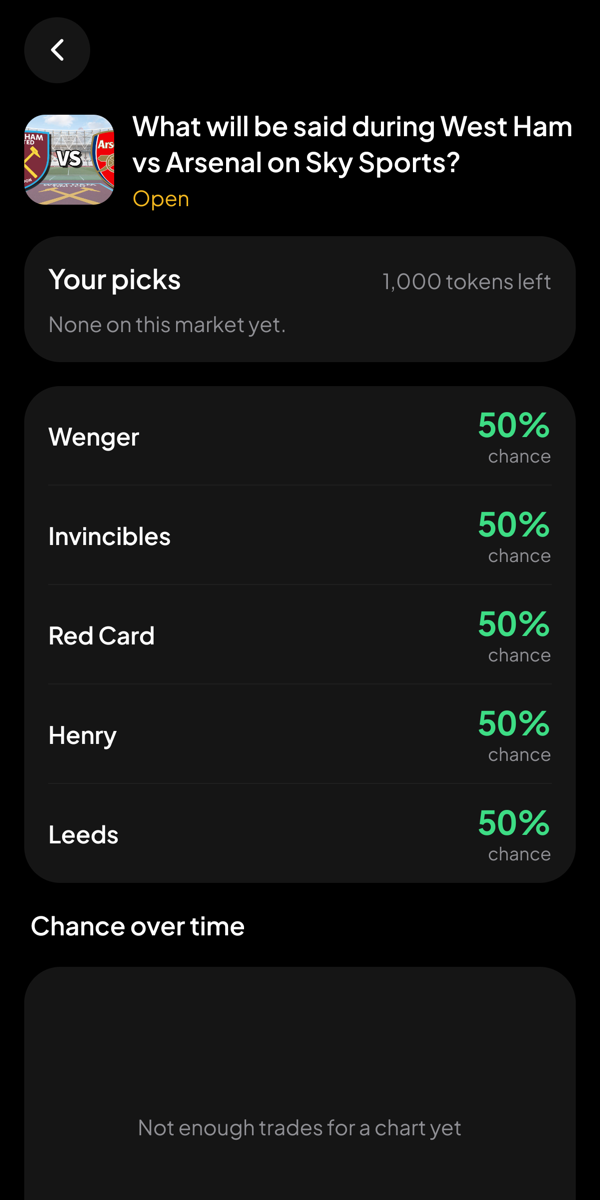
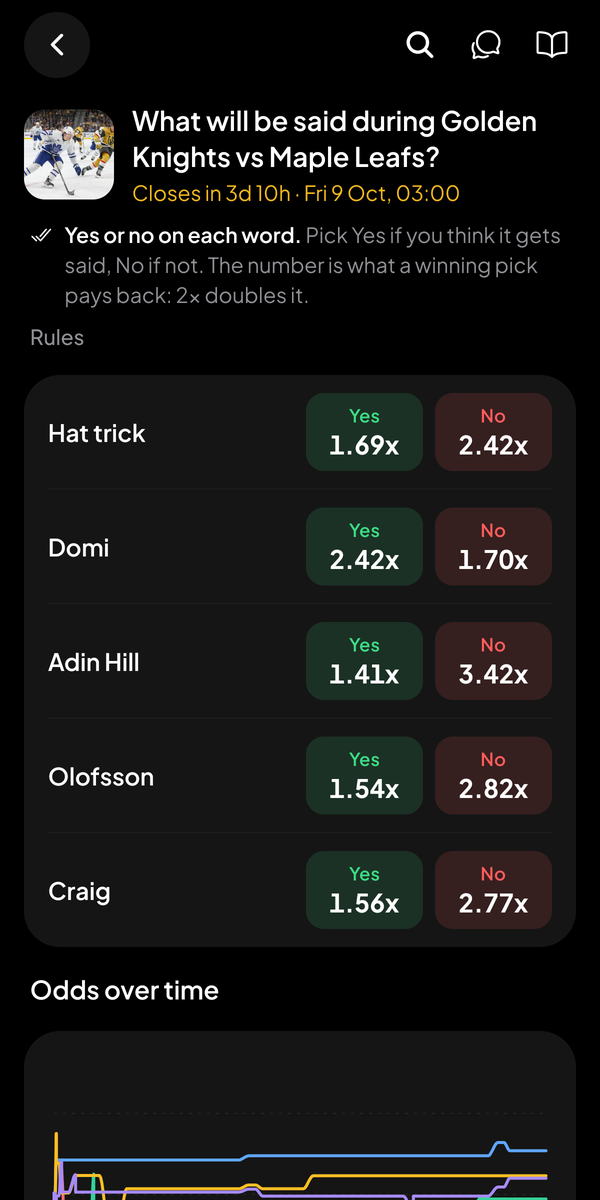
fix free market

diff --git a/src/app/free/[id].tsx b/src/app/free/[id].tsx
@@ -12,9 +12,10 @@ import { ScrollView, StyleSheet, Text, View } from 'react-native';
 import { chatEventId } from '@/chat/rules';
 import { getFreeMarket, getFreeMarketIdBySlug, tradeFree } from '@/api/free';
 import { useFreeChart, useFreeMarket, useFreePositions, useIsScreenFocused } from '@/api/queries';
+import { freeBuyMultiplier, freeQuote } from '@/free/display';
 import { sharesForTokens, virtualBuyCost, virtualSellReturn } from '@/free/lmsr';
 import { VIRTUAL_MARKET_POINTS_CAP, VIRTUAL_MARKET_POINTS_MULTIPLIER, getDisplayStatus } from '@/free/marketUtils';
-import { pct, tokens } from '@/lib/format';
+import { tokens } from '@/lib/format';
 import { toMs } from '@/lib/time';
 import { prepareSeries } from '@/lib/chart';
 import { useNow } from '@/lib/use-now';
@@ -144,7 +145,8 @@ function FreeYesNoScreen({ id, wordParam }: { id: number; wordParam?: string }) 
   });
   const heldBadges: Record<string, string> = {};
   for (const p of positions.data?.positions ?? []) {
-    const parts = [p.yes_shares > 0.005 ? `${fmt(p.yes_shares)} YES` : null, p.no_shares > 0.005 ? `${fmt(p.no_shares)} NO` : null].filter(Boolean);
+    // A share pays one token if its side wins, so a holding reads as what it pays.
+    const parts = [p.yes_shares > 0.005 ? `Yes pays ${tokens(p.yes_shares)} tokens` : null, p.no_shares > 0.005 ? `No pays ${tokens(p.no_shares)} tokens` : null].filter(Boolean);
     if (parts.length) heldBadges[String(p.word_id)] = parts.join(' · ');
   }
 
@@ -160,8 +162,9 @@ function FreeYesNoScreen({ id, wordParam }: { id: number; wordParam?: string }) 
   const canSell = heldYes > 0 || heldNo > 0;
   const mode: TradeMode = canSell ? modeChoice : 'buy';
   const amountNum = Number(amount) || 0;
-  const chance = word ? (side === 'YES' ? word.yes_price : word.no_price) : 0;
-  let headline = { label: 'Potential return', value: '0 tokens' };
+  // What one token on this side pays right now, as on a paid market.
+  const oddsChip: SheetChip | null = word ? { value: freeQuote(word.yes_price, side), caption: 'odds now', tone: side === 'YES' ? 'yes' : 'no' } : null;
+  let headline = { label: 'Payout', value: '0 tokens' };
   let detail: string | null = null;
   let chips: SheetChip[] = [];
   let warning: string | null = null;
@@ -171,11 +174,11 @@ function FreeYesNoScreen({ id, wordParam }: { id: number; wordParam?: string }) 
     const tokensIn = Math.min(amountNum, Math.max(0, balance));
     const sharesOut = tokensIn > 0 ? sharesForTokens(word.yes_qty, word.no_qty, side, tokensIn, b) : 0;
     const cost = sharesOut > 0 ? virtualBuyCost(word.yes_qty, word.no_qty, side, sharesOut, b) : 0;
-    const avg = sharesOut > 0 ? cost / sharesOut : 0;
-    headline = { label: 'Potential return', value: `${tokens(sharesOut)} tokens` };
-    detail = sharesOut > 0 ? `${fmt(sharesOut)} shares · avg ${pct(avg)} · cost ${tokens(cost)} tokens` : null;
+    const multiplier = freeBuyMultiplier(sharesOut, cost);
+    headline = { label: `Payout if ${side === 'YES' ? 'Yes' : 'No'}`, value: `${tokens(sharesOut)} tokens` };
+    detail = multiplier ? `${multiplier} on your pick · costs ${tokens(cost)} tokens` : null;
     chips = [
-      { value: pct(chance), caption: 'chance', tone: side === 'YES' ? 'yes' : 'no' },
+      ...(oddsChip ? [oddsChip] : []),
       { value: viewed ? tokens(balance) : tokens(m.play_tokens), caption: viewed ? 'tokens available' : 'tokens to start' },
     ];
     if (amountNum > balance) warning = `You have ${tokens(balance)} tokens on this market.`;
@@ -183,11 +186,12 @@ function FreeYesNoScreen({ id, wordParam }: { id: number; wordParam?: string }) 
   } else if (word) {
     const capped = Math.min(amountNum, heldSide);
     const ret = capped > 0 ? virtualSellReturn(word.yes_qty, word.no_qty, side, capped, b) : 0;
-    const avg = capped > 0 ? ret / capped : 0;
+    const kept = Math.max(0, heldSide - capped);
     headline = { label: 'You receive', value: `${tokens(ret)} tokens` };
-    detail = capped > 0 ? `avg ${pct(avg)}` : null;
+    // What is left still pays a token a share if the side wins.
+    detail = capped > 0 && kept > 0.005 ? `Keeps ${tokens(kept)} tokens if ${side === 'YES' ? 'Yes' : 'No'}` : null;
     chips = [
-      { value: pct(chance), caption: 'chance', tone: side === 'YES' ? 'yes' : 'no' },
+      ...(oddsChip ? [oddsChip] : []),
       { value: fmt(heldSide), caption: `${side} held` },
     ];
     if (!viewed) warning = 'Connect a wallet to see what you hold.';
@@ -291,10 +295,11 @@ function FreeYesNoScreen({ id, wordParam }: { id: number; wordParam?: string }) 
             <Button label="See results" tone="neutral" />
           </Link>
         ) : null}
-        <WordList words={words} onPick={openSheet} open={open} held={heldBadges} />
-        <SectionTitle title="Chance over time" />
+        <WordList words={words} onPick={openSheet} open={open} held={heldBadges} quote={(w, sd) => freeQuote(w.yesPrice, sd)} />
+        <SectionTitle title="Odds over time" />
         <Card>
-          <LineChart series={series} selectedKey={pick ? String(pick.wordId) : null} format={pct} />
+          {/* Lines read as what a Yes pays, like the buttons above. */}
+          <LineChart series={series} selectedKey={pick ? String(pick.wordId) : null} format={(p) => freeQuote(p, 'YES')} />
         </Card>
         <Text style={[type.muted, { textAlign: 'center' }]}>{POINTS_NOTE}</Text>
         <ChatPreview eventId={chatEventId('free-yesno', id)} title={m.title} focused={focused} now={now} />

diff --git a/src/ui/market-card.tsx b/src/ui/market-card.tsx
@@ -18,6 +18,7 @@ import { pct } from '@/lib/format';
 import { useCountdown } from '@/lib/use-countdown';
 import { GAME_BADGE, GAME_ICON, STAKE_NAME, gameOf, moneyLine, stakeOf } from '@/markets/game';
 import { isMajority, sameMarket, wordHref, type MarketSummary } from '@/markets/merge';
+import { freeQuote } from '@/free/display';
 import { sideQuote } from '@/trade/amm-display';
 import { LiveNumber } from '@/ui/live-number';
 import { Pill } from '@/ui/pill';
@@ -135,13 +136,14 @@ function MarketCardImpl({ market }: MarketCardProps) {
                       tone={w.outcome === 'winner' || w.outcome === 'yes' ? 'green' : w.outcome === 'loser' ? 'neutral' : 'red'}
                     />
                   ) : (
-                    // A paid YES/NO market shows what Yes pays, as the web's list does
-                    // (spot, before fees); everything else keeps its chance. Either
-                    // way it flashes with the chance, green for up.
+                    // A YES/NO market, paid or free, shows what Yes pays, as the
+                    // web's list does (spot, before fees); a majority board keeps
+                    // its share of the pool. Either way it flashes with the
+                    // chance, green for up.
                     <LiveNumber
                       value={w.pct}
                       format={pct}
-                      text={market.kind === 'paid-yesno' ? `Yes ${sideQuote(w.pct, 'YES', NO_FEES)}` : undefined}
+                      text={market.kind === 'paid-yesno' ? `Yes ${sideQuote(w.pct, 'YES', NO_FEES)}` : market.kind === 'free-yesno' ? `Yes ${freeQuote(w.pct, 'YES')}` : undefined}
                       style={StyleSheet.flatten([styles.wordPct, majority && { color: colors.text }])}
                     />
                   )}

diff --git a/test/free/display.test.ts b/test/free/display.test.ts
@@ -1,0 +1,45 @@
+// A free YES/NO market reads its odds the way a paid one does. These pin that
+// the two agree on the same price, and that a multiplier never over-promises.
+import { freeBuyMultiplier, freeQuote } from '@/free/display';
+import { sideQuote } from '@/trade/amm-display';
+
+describe('freeQuote', () => {
+  it('is one over the price of the side', () => {
+    expect(freeQuote(0.5, 'YES')).toBe('2x');
+    expect(freeQuote(0.4, 'YES')).toBe('2.50x');
+    expect(freeQuote(0.4, 'NO')).toBe('1.66x');
+  });
+
+  it('matches a paid market with no fee and no rake, price for price', () => {
+    for (const p of [0.05, 0.2, 0.46, 0.5, 0.79, 0.95]) {
+      expect(freeQuote(p, 'YES')).toBe(sideQuote(p, 'YES', { feeBps: 0, rakeBps: 0 }));
+      expect(freeQuote(p, 'NO')).toBe(sideQuote(p, 'NO', { feeBps: 0, rakeBps: 0 }));
+    }
+  });
+
+  it('rounds down, so it never promises more than it pays', () => {
+    // 1 / 0.46 = 2.1739...
+    expect(freeQuote(0.46, 'YES')).toBe('2.17x');
+  });
+
+  it('caps a near-certain loser instead of teasing a huge number', () => {
+    expect(freeQuote(0.001, 'YES')).toBe('100x+');
+  });
+
+  it('has no quote once the word has resolved', () => {
+    expect(freeQuote(0.7, 'YES', true)).toBe('');
+    expect(freeQuote(0.7, 'NO', false)).toBe('');
+  });
+});
+
+describe('freeBuyMultiplier', () => {
+  it('is what the buy pays over what it cost', () => {
+    expect(freeBuyMultiplier(100, 50)).toBe('2x');
+    expect(freeBuyMultiplier(108.6, 50)).toBe('2.17x');
+  });
+
+  it('is empty when there is nothing to quote', () => {
+    expect(freeBuyMultiplier(0, 0)).toBe('');
+    expect(freeBuyMultiplier(10, 0)).toBe('');
+  });
+});

diff --git a/src/ui/seeker-offer.tsx b/src/ui/seeker-offer.tsx
@@ -120,19 +120,20 @@ function Glow({ still }: { still: boolean }) {
 const GIFT = 36;
 
 const styles = StyleSheet.create({
+  // No outline. A hairline gold border around corners this round drew
+  // unevenly on Android, thicker on the curves than on the sides, and no other
+  // card in the app has one (docs/DESIGN.md). The gold tint alone marks it out.
   card: {
     flexDirection: 'row',
     alignItems: 'center',
     gap: spacing.sm + 4,
-    paddingVertical: spacing.sm + 4,
-    paddingLeft: spacing.sm + 4,
-    paddingRight: spacing.md + 6,
+    paddingVertical: spacing.md,
+    paddingHorizontal: spacing.md,
     borderRadius: radius.card,
     backgroundColor: colors.goldTint,
-    borderWidth: StyleSheet.hairlineWidth,
-    borderColor: colors.gold,
   },
-  celebrate: { borderWidth: 1 },
+  // The moment the stake lands: a deeper gold ground, where the border used to thicken.
+  celebrate: { backgroundColor: 'rgba(242,183,31,0.28)' },
   giftWrap: { width: GIFT + 6, height: GIFT + 6, alignItems: 'center', justifyContent: 'center' },
   halo: { position: 'absolute', width: GIFT + 6, height: GIFT + 6, borderRadius: (GIFT + 6) / 2, backgroundColor: colors.gold },
   gift: { width: GIFT, height: GIFT, borderRadius: GIFT / 2, backgroundColor: colors.gold, alignItems: 'center', justifyContent: 'center' },
@@ -141,5 +142,5 @@ const styles = StyleSheet.create({
   amount: { fontFamily: fonts.bold, color: colors.gold, fontVariant: ['tabular-nums'] },
   subtitle: { ...type.muted, fontSize: 13, lineHeight: 17 },
   error: { color: colors.no },
-  close: { position: 'absolute', top: 8, right: 10 },
+  close: { position: 'absolute', top: 10, right: 12 },
 });

diff --git a/src/free/display.ts b/src/free/display.ts
@@ -1,0 +1,32 @@
+// What a free YES/NO market shows: multipliers and tokens, the same reading
+// of the odds as a paid one (src/trade/amm-display.ts), in play tokens rather
+// than dollars.
+//
+// A winning share pays one token and the price is what a share costs, so the
+// multiplier is 1 / price: "40%" and "2.50x" are the same quote. The app showed
+// free markets as a chance until Oct 2026, while paid markets and the website
+// had both moved to multipliers, so the same word read as "46%" on one market
+// and "2.17x" on the next. A free market has no trade fee and no winner rake,
+// which is the only difference from the paid quote.
+//
+// Free MAJORITY markets are not this: a board shows each word's share of the
+// pool, as a paid majority board does.
+import { effectiveMultiplier, formatMultiplier, formatQuote, type Side } from '@/lib/oddsDisplay';
+
+/**
+ * The multiplier on a Yes/No button: what one token on that side pays if it
+ * wins. Spot, not sized to a stake. Empty for a resolved word, which shows its
+ * outcome instead.
+ */
+export function freeQuote(yesPrice: number, side: Side, outcome: boolean | null = null): string {
+  return formatQuote('multiplier', yesPrice, side, { outcome });
+}
+
+/**
+ * The multiplier for one buy: tokens paid out if it wins over tokens put in.
+ * Sized to the stake, so it includes the price moving as the order fills and
+ * sits a little under `freeQuote`. Empty when there is nothing to quote.
+ */
+export function freeBuyMultiplier(sharesOut: number, cost: number): string {
+  return formatMultiplier(effectiveMultiplier(sharesOut, cost));
+}

diff --git a/src/app/result/[type]/[id].tsx b/src/app/result/[type]/[id].tsx
@@ -27,8 +27,9 @@ import { placeLabel } from '@/chain/majorityWords';
 import { foldedRows, pnlTone, resultsSummary, returnPct, RESULTS_SHOWN, signedUsd, traderLine } from '@/markets/paid-results';
 import { freeResult, freeWeights, paidResult, paidWeights, placesLine } from '@/markets/top3';
 import { base64ToBytes } from '@/lib/bytes';
+import { freeQuote } from '@/free/display';
 import { sideQuote } from '@/trade/amm-display';
-import { pct, shortAddress, tokens, usd, usdc } from '@/lib/format';
+import { shortAddress, tokens, usd, usdc } from '@/lib/format';
 import { toMs } from '@/lib/time';
 import { useNow } from '@/lib/use-now';
 import { useActiveWallet } from '@/store/active-wallet';
@@ -409,7 +410,7 @@ function FreeResult({ id, majority }: { id: number; majority: boolean }) {
                   {w.word}
                 </Text>
                 {/* A top 3 result does not show how often a word was said: the count is not part of its resolution yet. */}
-                {podium ? null : <Text style={type.muted}>{majority ? `said ${w.mention_count}×` : `closed at ${pct(w.yes_price)} chance`}</Text>}
+                {podium ? null : <Text style={type.muted}>{majority ? `said ${w.mention_count}×` : `closed at Yes ${freeQuote(w.yes_price, 'YES')}`}</Text>}
                 {w.resolved_outcome === null ? (
                   <Pill label="PENDING" tone="orange" />
                 ) : majority ? (

diff --git a/src/ui/word-list.tsx b/src/ui/word-list.tsx
@@ -1,8 +1,8 @@
-// The words of a YES/NO market, one row each. A free market shows the chance
-// the word happens, and tapping the row opens the trade sheet on YES. A paid
-// (AMM) market passes `quote` and shows a Yes and a No button with what each
-// pays, e.g. "Yes 1.58x", each opening the sheet on its own side: AMM markets
-// show multipliers only (src/trade/amm-display.ts).
+// The words of a YES/NO market, one row each. Both kinds pass `quote` and get
+// a Yes and a No button with what each pays, e.g. "Yes 1.58x", each opening
+// the sheet on its own side: a paid market from src/trade/amm-display.ts, a
+// free one from src/free/display.ts. Without `quote` a row falls back to the
+// chance the word happens, which no screen uses any more.
 import * as Haptics from 'expo-haptics';
 import { Pressable, StyleSheet, Text, View } from 'react-native';
 

diff --git a/src/trade/amm-display.ts b/src/trade/amm-display.ts
@@ -3,8 +3,8 @@
 //
 // The web moved AMM markets to multiplier odds in September 2026
 // (lib/oddsDisplay.ts, ported as src/lib/oddsDisplay.ts). The app shows only
-// that mode; there is no cents toggle. Majority markets and free markets are
-// not AMM markets and keep their own display.
+// that mode; there is no cents toggle. Free YES/NO markets read the same way,
+// in tokens (src/free/display.ts). Majority boards keep their share of the pool.
 //
 // Two places this deliberately goes further than the web page:
 // - A payout is net of the market's winner rake everywhere. The web's buy

diff --git a/src/markets/game.ts b/src/markets/game.ts
@@ -39,7 +39,7 @@ export const GAME_ICON: Record<Game, 'podium' | 'checkmark-done'> = {
 /** How the game is won, in a line. The same for free and paid: only the unit differs. */
 export const HOW_TO_PLAY: Record<Game, string> = {
   majority: 'Pick words. Everyone who picked the word said most shares the pool.',
-  yesno: 'Pick Yes if you think it gets said, No if not. The % is how likely players think it is.',
+  yesno: 'Pick Yes if you think it gets said, No if not. The number is what a winning pick pays back: 2x doubles it.',
 };
 
 /**

diff --git a/test/markets/game.test.ts b/test/markets/game.test.ts
@@ -66,8 +66,9 @@ describe('how to play', () => {
     expect(HOW_TO_PLAY.majority).toMatch(/shares the pool/);
   });
 
-  it('says what the percentage on a word means', () => {
-    expect(HOW_TO_PLAY.yesno).toMatch(/%/);
+  it('says what the multiplier on a word means, and never calls it a percentage', () => {
+    expect(HOW_TO_PLAY.yesno).toMatch(/2x doubles it/);
+    expect(HOW_TO_PLAY.yesno).not.toMatch(/%/);
   });
 
   it('keeps to the house style', () => {
